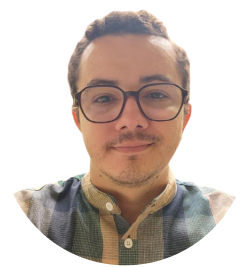
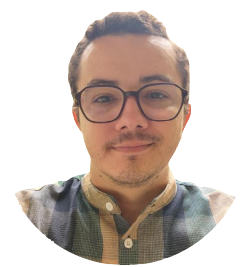
Aprimoramento visual de algumas seções do site

diff --git a/css/style.css b/css/style.css
@@ -103,6 +103,8 @@ span{
 
 .H1Principal{
     font-size: 30px;
+    margin-top: 30px;
+    margin-bottom: 20px;
 }
 .TituloParagPrincipal{
     font-size: 26px;
@@ -112,6 +114,7 @@ span{
 
 #TextEsquerdo p{
     font-size: 18px;
+    margin-right: 50px;
 }
 
 #TextDireito p{
@@ -131,11 +134,12 @@ span{
 
 .t4 {
     display: flex;
-    padding-top: 30px;
+    padding-top: 50px;
     justify-content: center;
     align-items: center;
     font-size: 30px;
     font-weight: 700;
+    margin-top: 30px;
 }
 
 .membros {
@@ -171,27 +175,35 @@ span{
 .person-card {
     background-color: #B79E89;
     text-align: center;
-    max-width: 400px;
-    margin: 10px;
-    padding: 15px;
-    border: 1px solid #ccc;
+    max-width: 480px;
+    margin: 15px;
+    padding: 20px;
+    border: 4px solid #5E422B;
     border-radius: 8px;
-    box-shadow: 0 0 10px rgba(0, 0, 0, 0.1);
+    box-shadow: 0 0 30px rgba(0, 0, 0, 0.1);
 }
 
 .coordname {
     color: #fff;
+    margin-top: 10px;
+}
+
+.job{
+    text-align: left;
+    margin: 20px;
 }
 
 .bio{
-    text-align: justify;
+    text-align: left;
     margin: 20px;
 }
 
 .person-card img {
-    padding-top: 10px;
-    max-width: 60%;
+    max-width: 50%;
+    border: 4px solid #5E422B;
     border-radius: 50%;
+    margin-bottom: 10px;
+    object-fit: cover;
 }
 
 /* Estilos gerais do footer e do formulário */
@@ -204,14 +216,15 @@ footer {
 }
 
 .t1 {
-    color: #F33535;
+    color: #fff;
     font-size: 40px;
     font-weight: 600;
     margin-bottom: 20px;
+    margin-top: 30px;
 }
 
 .t3 {
-    color: #F33535;
+    color: #fff;
     font-size: 25px;
     font-weight: 600;
     margin-bottom: 15px;
@@ -257,7 +270,7 @@ footer {
 }
 
 .t2 {
-    color: #F33535;
+    color: #fff;
     font-size: 24px;
     margin-bottom: 10px;
 }
@@ -316,6 +329,13 @@ button:hover {
 .copyright {
     align-items: center;
     margin-top: 20px;
+}
+
+a {
+    color: #ffffff;
+    text-decoration: underline;
+    font-style: italic;
+    font-weight: bold;
 }
 
 @media only screen and (max-width: 1000px) {
